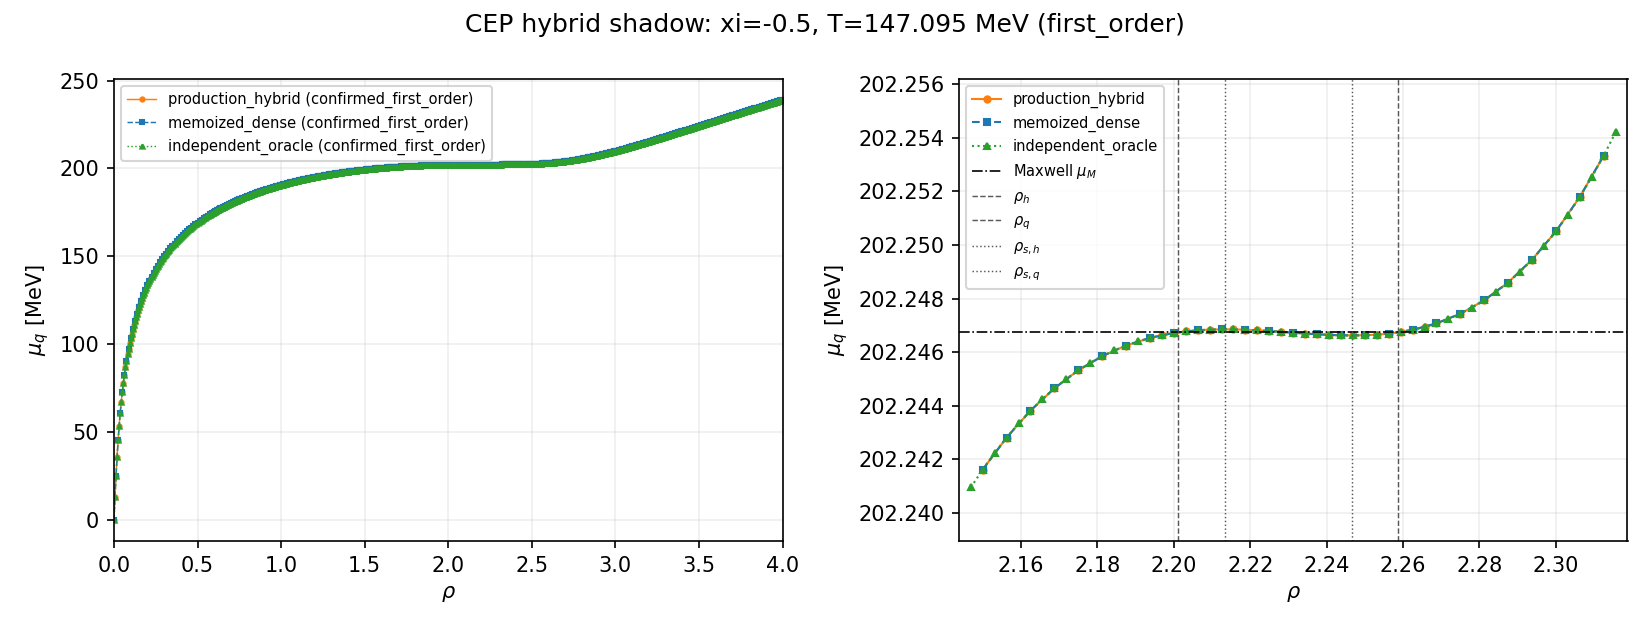
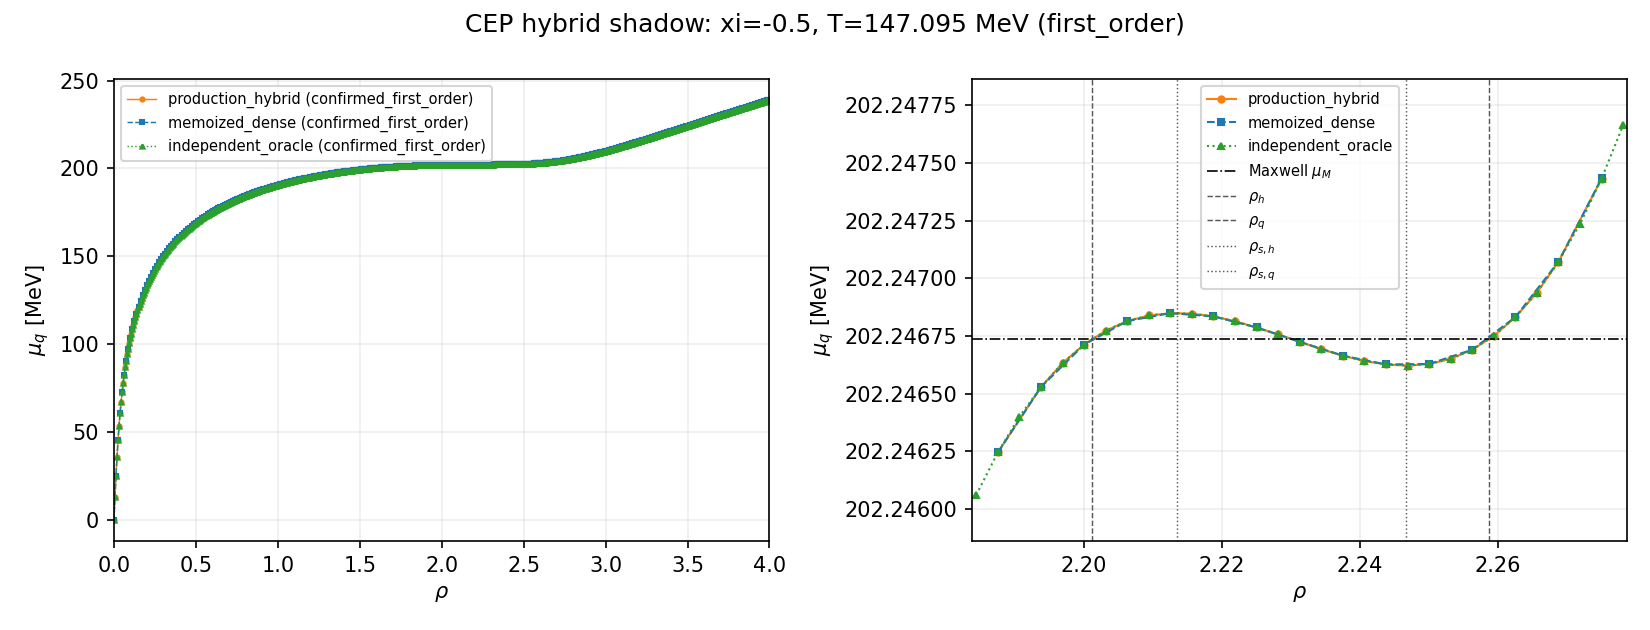
fix: tighten endpoint-local shadow plot windows

diff --git a/scripts/analysis/plot_pnjl_cep_hybrid_production_shadow.py b/scripts/analysis/plot_pnjl_cep_hybrid_production_shadow.py
@@ -14,8 +14,10 @@ METHODS = ("production_hybrid", "memoized_dense", "independent_oracle")
 XIS = ("-0.5", "0.0", "0.5")
 CURVE_T_MATCH_TOL = 1e-6  # trho CSV serializes T to six decimal places
 SMOOTH_SLOPE_QUANTILE = 0.05
+LOCAL_X_RELATIVE_PADDING = 0.04
+LOCAL_X_MIN_PADDING_RHO = 0.01
 LOCAL_Y_RELATIVE_PADDING = 0.08
-LOCAL_Y_MIN_PADDING_MEV = 0.002
+LOCAL_Y_MIN_PADDING_MEV = 0.0002
 
 
 def _rows(path: Path) -> list[dict[str, str]]:
@@ -77,7 +79,10 @@ def _bounds(curve_rows: list[dict[str, str]], slice_rows: list[dict[str, str]], 
     if len(values) < 2:
         return 0.0, 4.0
     low, high = min(values), max(values)
-    padding = max((high - low) * 0.15, 0.05)
+    # Keep the phase/support envelope visible while removing the large
+    # display-only margin that previously hid most of a weak S-shape.  This
+    # is a plotting rule only; it does not change support selection or gates.
+    padding = max((high - low) * LOCAL_X_RELATIVE_PADDING, LOCAL_X_MIN_PADDING_RHO)
     return max(0.0, low - padding), min(4.0, high + padding)
 
 
@@ -201,7 +206,7 @@ def _plot_anchor(
     phase_values = _phase_bound_values(slice_rows, xi, temperature)
     if len(phase_values) >= 2:
         low, high = _bounds(subset, slice_rows, xi, temperature)
-        local_policy = "independent_rho_mu_zoom_with_phase_markers_v2"
+        local_policy = "independent_rho_mu_zoom_with_phase_markers_v3_tight_envelope"
         local_metadata: dict[str, object] = {"smooth_window_status": "not_used"}
     else:
         low, high, local_metadata = _smooth_window(subset, xi, temperature)
@@ -314,7 +319,9 @@ def main() -> int:
         "source_sha256": {"curve_points.csv": hashlib.sha256(curve_path.read_bytes()).hexdigest(), "slice_metrics.csv": hashlib.sha256(slice_path.read_bytes()).hexdigest()},
         "plot_policy": {
             "full_panel": "rho_0_to_4_with_shared_method_styles",
-            "local_panel": "independent_rho_mu_zoom_with_phase_markers_v2",
+            "local_panel": "independent_rho_mu_zoom_with_phase_markers_v3_tight_envelope",
+            "local_x_padding_rule": "max(4% of phase/support envelope, 0.01 rho)",
+            "local_y_padding_rule": "max(8% of local mu span, 0.0002 MeV)",
             "local_y_axis_is_independent": True,
             "no_support_panel": "smooth_window_rho_mu_zoom_v1",
         },

diff --git a/tests/unit/python/test_plot_pnjl_cep_hybrid_production_shadow.py b/tests/unit/python/test_plot_pnjl_cep_hybrid_production_shadow.py
@@ -1,4 +1,5 @@
 import importlib.util
+import math
 from pathlib import Path
 
 
@@ -24,6 +25,26 @@ def test_local_y_bounds_preserve_weak_s_shape_scale():
 def test_local_y_bounds_has_finite_fallback_for_missing_points():
     module = _module()
     assert module._local_y_bounds([]) == (0.0, 1.0)
+
+
+def test_phase_bounds_use_tight_display_envelope():
+    module = _module()
+    slice_rows = [
+        {
+            "xi": "-0.5",
+            "method": "production_hybrid",
+            "T_MeV": "147.0947265625",
+            "support_low": "2.19375",
+            "support_high": "2.26875",
+            "rho_hadron": "2.201214",
+            "rho_quark": "2.258657",
+            "rho_spinodal_hadron": "2.213478",
+            "rho_spinodal_quark": "2.246599",
+        }
+    ]
+    low, high = module._bounds([], slice_rows, "-0.5", 147.0947265625)
+    assert math.isclose(low, 2.18375)
+    assert math.isclose(high, 2.27875)
 
 
 def test_smooth_window_uses_longest_low_slope_run_without_phase_labels():

diff --git a/docs/analysis/pnjl_cep_endpoint_local_production_shadow_v4/AUDIT.md b/docs/analysis/pnjl_cep_endpoint_local_production_shadow_v4/AUDIT.md
@@ -8,7 +8,9 @@
   Maxwell 端点）；所有 `Inf` 及未声明的 NaN 均拒绝；
 - 三个 endpoint certificates 的 support envelope 均覆盖初始 left bracket 与 anchor；
 - 代表图的右侧面板使用独立的 `rho–mu` 局部纵轴，并标出 Maxwell/spinodal/coexistence
-  位置；该图层修正只改变后处理，不改变原始曲线或数值 gate；
+  位置；一阶图的 rho 窗口遵循 `max(4% of phase/support envelope, 0.01 rho)`，
+  mu 轴留白遵循 `max(8% of local mu span, 0.0002 MeV)`；这些图层规则只改变
+  后处理，不改变原始曲线或数值 gate；
 - 没有有限 Maxwell/spinodal/support 的 monotone 切片使用原始 production 曲线最长低斜率
   区间作为显示窗口；该窗口不参与物理分类或 gate；
 - gate verdict: `full_hybrid_candidate`；所有 oracle/classification/
